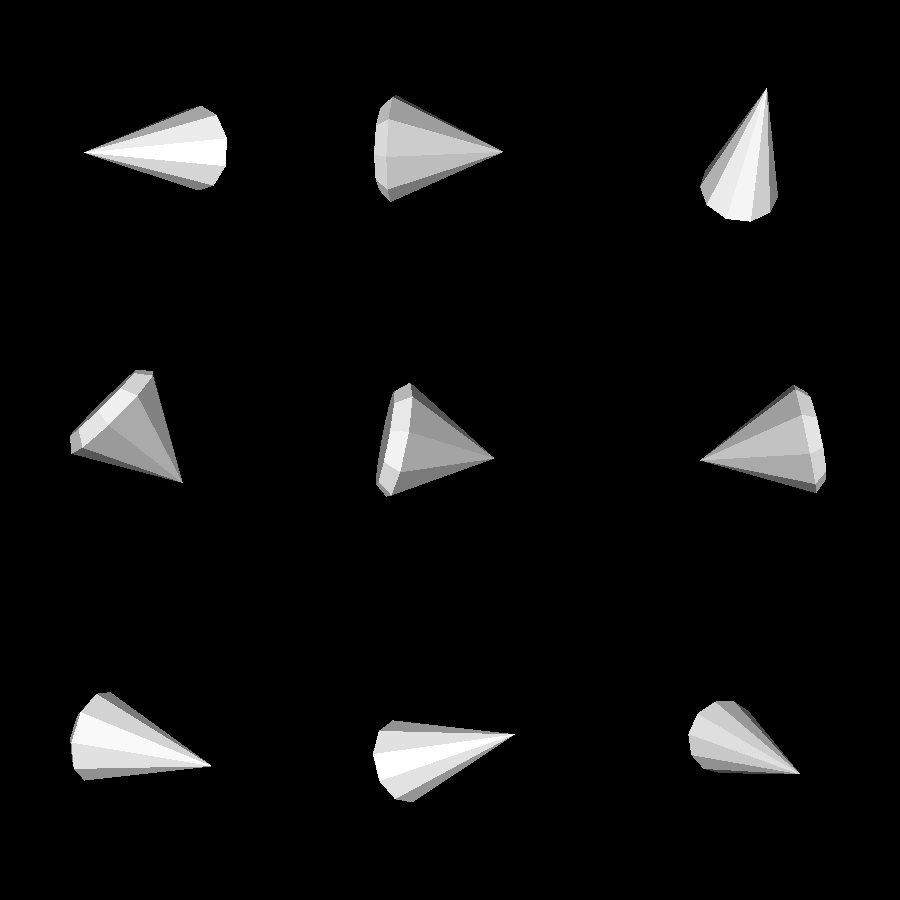
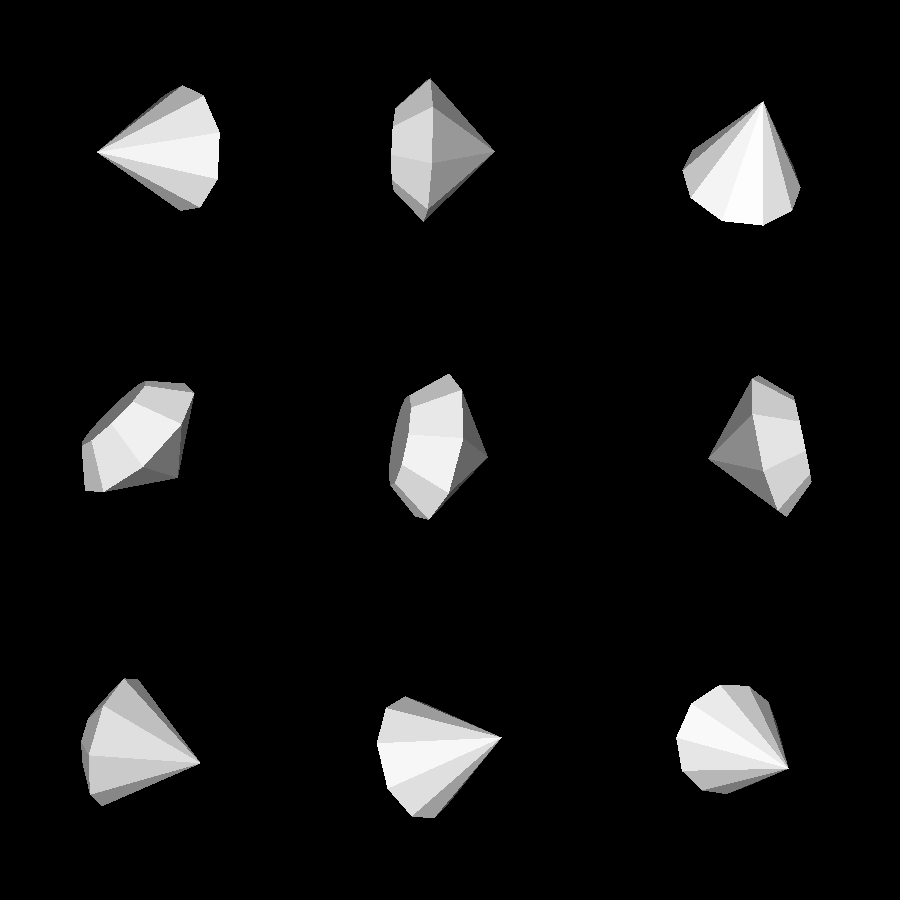
better looking diamond

diff --git a/examples/decoration/diamond/main.go b/examples/decoration/diamond/main.go
@@ -12,13 +12,13 @@ func main() {
 	system := model3d.ConvexPolytope{
 		&model3d.LinearConstraint{
 			Normal: model3d.Coord3D{Z: -1},
-			Max:    0.2,
+			Max:    0.4,
 		},
 	}
 	for i := 0; i < NumSides; i++ {
 		theta := float64(i) * math.Pi * 2 / NumSides
 		n1 := model3d.Coord3D{X: math.Cos(theta), Y: math.Sin(theta), Z: -1}.Normalize()
-		n2 := model3d.Coord3D{X: math.Cos(theta), Y: math.Sin(theta), Z: 0.4}.Normalize()
+		n2 := model3d.Coord3D{X: math.Cos(theta), Y: math.Sin(theta), Z: 0.8}.Normalize()
 		p := model3d.Coord3D{X: math.Cos(theta), Y: math.Sin(theta)}
 		system = append(system,
 			&model3d.LinearConstraint{
